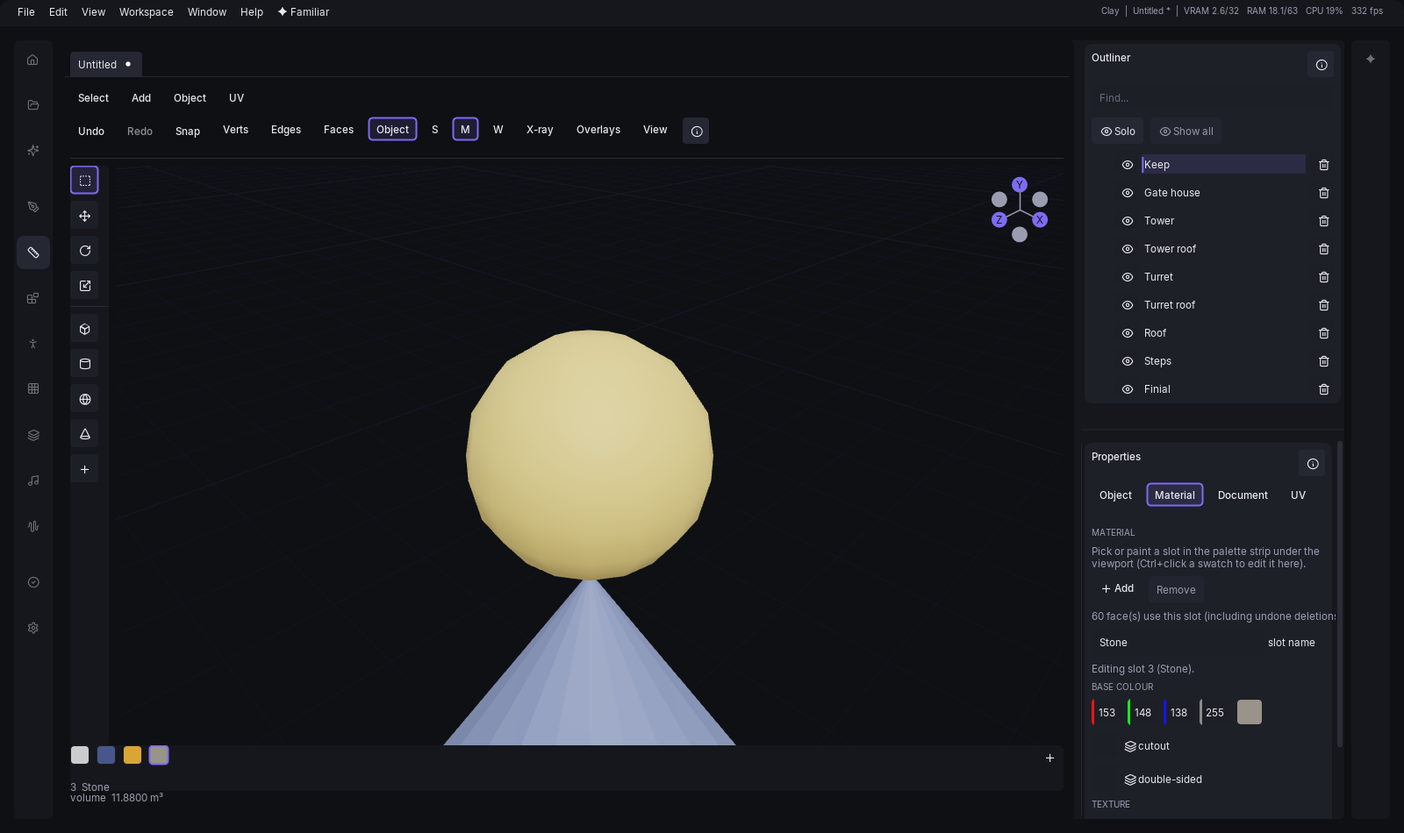
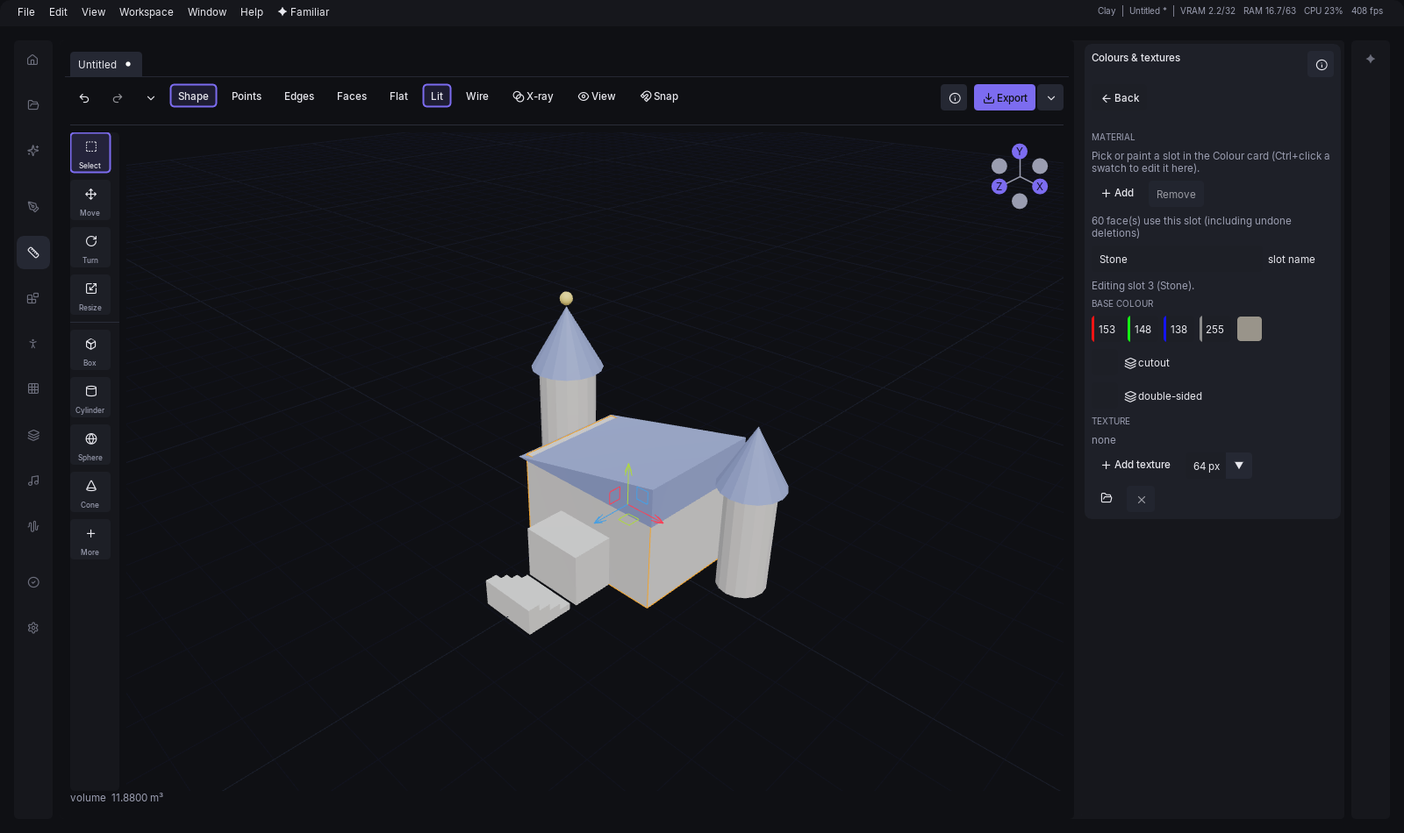
Clay's manual pictures and tour copy match the new layout
The four Clay screenshots are retaken (and now frame the whole keep), the manual and tour stop naming the Properties tabs, Adjust panel and menu strip, and a Colours page note that ran off the pane now wraps.

diff --git a/src/realmspinner/studio/tour/scripts.py b/src/realmspinner/studio/tour/scripts.py
@@ -790,7 +790,7 @@ CLAY_TORCH = Tour(
             title="The room you build in",
             body=(
                 "The column of buttons on the left is the rail: four tools (Select, Move, "
-                "Rotate, Scale -- Q, G, R, S on the keyboard) and the shapes you add. "
+                "Turn, Resize -- Q, G, R, S on the keyboard) and the shapes you add. "
                 "Everything you add is listed under All shapes, the row at the foot of "
                 "the Inspector on the right (click it to open or close the list), and "
                 "the Inspector above it holds the numbers.\n\n"
@@ -834,8 +834,9 @@ CLAY_TORCH = Tour(
             title="The shaft: a cylinder",
             body=(
                 "Add a Cylinder from the rail, then make it a thin pole: Size W 0.08, "
-                "H 0.6, D 0.08. It lands on the ground beside the plate; move it with "
-                "Position so it stands in front of the plate instead.\n\n"
+                "H 0.6, D 0.08. It lands on the ground beside the plate; open Position "
+                "& turn in the Inspector and move it so it stands in front of the plate "
+                "instead.\n\n"
                 "Next unlocks once the cylinder has been shaped."
             ),
             mode="clay",
@@ -893,8 +894,9 @@ CLAY_TORCH = Tour(
                 "slot. With the cone selected, press + in the palette twice to add two "
                 "more (each starts grey and the cone wears it), then Ctrl+click a slot and "
                 "press Edit colour to set its colour: a brown for the wood, an orange for "
-                "the fire. With nothing selected the same card is headed Next shape's "
-                "colour, and a click there picks what the next shape wears.\n\n"
+                "the fire (Back returns to the Inspector). With nothing selected the same card is "
+                "headed Next shape's colour, and a click there picks what the next shape "
+                "wears.\n\n"
                 "Next unlocks once the palette holds three slots."
             ),
             mode="clay",
@@ -907,8 +909,9 @@ CLAY_TORCH = Tour(
             id="paint",
             title="Paint the parts",
             body=(
-                "Select an object in All shapes and click a swatch in the Colour card, a "
-                "named colour or a slot of the palette, to repaint it. Do it for the "
+                "Click an object in the viewport (or in the All shapes list) and then a "
+                "swatch in the Colour card, a named colour or a slot of the palette, to "
+                "repaint it. Do it for the "
                 "flame and for the shaft, so the torch is not all one colour.\n\n"
                 "Next unlocks once two objects are painted with something other than the "
                 "first slot."
@@ -923,8 +926,9 @@ CLAY_TORCH = Tour(
             title="The Model card",
             body=(
                 "Saving and exporting live on the Model card, which the Inspector shows "
-                "when no shape is selected. Press Esc, or click empty space, to let go of "
-                "the shape; the next two cards point at the controls inside."
+                "when no shape is selected. Press Back if a page is open, then Esc, or click "
+                "empty space, to let go of the shape; the next two cards point at the "
+                "controls inside."
             ),
             mode="clay",
             anchor="clay/inspector",
@@ -963,8 +967,9 @@ CLAY_TORCH = Tour(
             id="where-next",
             title="Your torch is in the Library",
             body=(
-                "Open the Library to find it. Export GLB and Export OBJ, beside the "
-                "library button, write a plain file instead -- for a game engine that "
+                "Open the Library to find it. Export GLB and Export OBJ, in the "
+                "toolbar's Export menu (the chevron) and on the Model & history page, "
+                "write a plain file instead -- for a game engine that "
                 "reads files, not this app's Library. Neither counts as saving the "
                 "model; the .rblk you saved does.\n\n"
                 "From here the same moves build anything: add, size, colour, repeat."

diff --git a/src/realmspinner/studio/modes/clay/ui/panes/props.py b/src/realmspinner/studio/modes/clay/ui/panes/props.py
@@ -1102,7 +1102,7 @@ def _palette_row(doc: Any, obj: Any) -> None:
         # Same fold as Add, for the same reason.
         doc.remove_material_and_reassign(obj.uid, index)
     if reason:
-        widgets.muted(reason)
+        widgets.muted_wrapped(reason)
 
     # commit=True for the reason ``_identity``'s name field needs it: the
     # 2026-09-06 audit's clay-02 found this one reporting per keystroke too,

diff --git a/CHANGELOG.md b/CHANGELOG.md
@@ -20,6 +20,7 @@ the release you are actually running.
 
 ## 0.0.54 — 2026-09-28
 
+- **Clay's whole layout is rebuilt around one labelled toolbar, one tool rail and one Inspector.** A new shape stands on the ground, framed and in your last colour; the Select | Add | Object | Mesh | UV strip, the palette strip, Properties' four tabs and the Adjust card are gone, and everything they held is in the Inspector, the right-click menu or `Ctrl`+`K`; Points, Edges and Faces keep the shape selected; a plain drag orbits in every mode; the sidebars are 300 px in every mode; and Bevel Edges is back. The entries below say each piece in turn, newest first; the picoCAD-layout entry further down is the earlier step they replace.
 - **Clay: Bevel Edges is back, as the thirty-ninth operation.** The picoCAD-level cut took it out with the Blender-shaped long tail, but a low-poly model wants its corners chamfered, and the kernel never left (the old-file migration still ran it). In Edges mode **Bevel Edges...** sits in **Shape it** beside Extrude, in the right-click menu, in `Ctrl`+`K` and in the agent's `clay_op` list as `bevel`. `Ctrl`+`B` starts a drag for the width, drawn live and committed once on click or `Enter` (type `0.1` and `Enter` for exactly that); the menu, the palette and the Inspector open the width field instead. Bevel one edge of a box and the face opposite becomes a pentagon, bevel all twelve and the box has 26 faces. An edge on a boundary, a width of zero or less, or a selection that would touch more than 10,000 corners is refused with the reason. Loop cut, edge slide and the other cut operations stay cut. **Familiar's Clay card was re-frozen** (`cards/clay-2.txt`, sha `4f53e4b7...` to `53fd8891...`): the only change is `bevel` in `clay_op`'s name list, and no fine-tune had shipped against the old bytes.
 - **Clay: the Select | Add | Object | Mesh | UV menu strip is gone, and the toolbar is the first row over the viewport.** A second row of menu names sat above the toolbar and listed every operation Clay has, but each of those operations was already a button in the Inspector (More actions in Shape mode, the Select row and Shape it in Points, Edges and Faces), a row of the right-click menu and a `Ctrl+K` command, and the viewport paid a whole row of height for the fourth copy. The render is that row taller now. The one thing the strip alone offered, **Import Mesh...**, has three homes: a button on the Inspector's Model & history page beside the units and up axis it reads, a row in the File menu, and a `Ctrl+K` command; the shapes its Add menu listed are the rail's `+` and the Inspector's More shapes list, as before. `tests/modes/clay/test_clay_no_menu_strip.py` checks, in every mode, that each operation the strip named is still in the right-click menu and the palette (and in the Inspector, except Shape mode's Select All, Select None and Invert, which are `Ctrl+A`, `Ctrl+D` and `Ctrl+Shift+I`). The empty viewport now says "Pick one from the tool rail" rather than "from Add".
 - **Clay: the palette strip under the viewport is the Inspector's Colour card now.** The fixed band under the render held the document's slots in one sideways-scrolling row, so painting meant looking away from the Inspector's colours to a second palette at the bottom of the window, and the viewport gave 52 px of its height to it. The slots are now a second row of the Colour card, under the eight named colours, in every state the strip painted in: one shape, several, none (headed **Next shape's colour**, where a click only picks what the next shape wears) and Points, Edges and Faces (where a slot, or one of the eight, paints the picked faces; Points and Edges only pick the slot). A click, Ctrl+click and the **+** keep the strip's rules, except that **+** now also paints with the grey slot it adds, as one undo step (the strip's added a slot and left you to click it). The row wraps to the 300 px column and scrolls inside the card past three rows, so a sixty-four-slot palette cannot push Duplicate and Delete out of the pane. The render and the tool rail grow by the strip's height. The tour's colour steps point at the card.
@@ -42,7 +43,7 @@ the release you are actually running.
 - **Clay: hiding an object deselects it, a box's side walls stand upright, and a few refusals that were silent now speak.** Hiding through the eye, the visibility box, Solo or `H` leaves nothing selected that you cannot see (`Ctrl+Z` shows the object again without re-selecting it). The ±X walls of a box were laid out a quarter-turn on their side, so a picture painted for the front wall lay down along the sides; they now read upright and unmirrored like the other four. Assign Material, Shade in face mode and the Select Linked family skip a hidden object the way every other element door already did. Typing a coordinate into the Properties median that the document refuses (an overflowing one) now toasts instead of doing nothing, a UV move past the island ceiling toasts once and ends the drag instead of toasting every frame, the highlight under the pointer clears when the pointer leaves the viewport for a panel, and `round(x, 2.7)` in a `clay_program` expression is refused instead of rounding to two places.
 
 - **A guided tour for Clay: build a low-poly wall torch.** **Take the tour: Building a wall torch** (the Help menu, the command palette, and Home's offer once the earlier tours are done) walks a first model from an empty document: a box for the wall plate, two cylinders for the shaft and collar, a low-segment cone for the flame, three palette colours, then **Save** and **Export to library**. It needs no GPU and no downloaded model. It is the first tour whose building steps **hold Next** until the part they ask for is in the document (the card says "Next unlocks when this is done."; the Enter and Right keys wait too), and every held card has a **Skip step** button so a check you would rather not meet never traps you; every other tour still leaves Next open. The checks only read the document, and ending, skipping or going back changes nothing in it. The export step completes on **Export to library**; Export GLB and Export OBJ write a plain file and leave no mark on the document, so they do not count. Clay's rail, outliner, palette strip and Properties controls gained the tour's rings, and the Home, Overview, Clay and Modelling chapters describe it.
-- **Clay is laid out like picoCAD: a slim tool rail, a palette strip under the viewport, and the keys Q, G, R and S.** The left-hand Tools pane, the "Model file" pane and the swatch row inside the Material tab are gone, and the viewport takes the room. A **tool rail** down the viewport's left edge holds Select, Move, Rotate and Scale, a few shapes as one-click buttons and a **+** flyout that lists all fifteen shapes by name. A fixed **palette strip** under the viewport shows the document's material slots: a click repaints the selected object or paints the selected faces (one undo step), `Ctrl`+click makes it the slot the Material tab edits, and **+** adds a slot. The right column is the outliner and Properties only, and Properties' tabs are now words: **Object**, **Material**, **Document** and **UV** (the UV view moved in from its own pane). **Undo** and **Redo** are buttons in the header; Open, Open Recent, Export GLB, Export OBJ and Save Screenshot moved into the **File** menu next to New, Save, Save As and Export to library, and the Document tab keeps the counts, the import units and up axis, the undo history, the last export and the two export buttons. **The tools are Q select, G move, R rotate, S scale** (Blender's letters, replacing Q/W/E/R): G, R and S also start a keyboard drag and light their tool, so the key and the tool always agree, and `E` is Extrude in an element mode and does nothing in object mode. The header's mode pills now read V, E, F, Obj in the order of the keys 1 to 4. **The viewport tells you more.** A selected object is outlined in orange and the object under the pointer lights up; the grid draws a red X axis, a blue Z axis and an origin dot; the wheel zooms toward the pointer and can come in much closer; `F` frames the selection without turning the view; the middle button pans with or without `Shift`; the numeric keypad looks along front, right and top (1, 3, 7), toggles orthographic (5) and frames (.); and `H`, `Shift`+`H` and `Alt`+`H` hide, isolate and show all. The Move gizmo has plane handles, and the Select tool shows it for a selection, in element modes too. **Snap now means what it says in an element mode:** with Snap on, a Move puts each moved vertex on a grid point in world space instead of carrying the selection by a snapped offset (object mode still snaps the object's origin). With vertices, edges or faces selected the Object tab shows the selection's median X, Y and Z, which you can type to move it (one undo step), and the length of a selected edge or the area of a selected face. `E` and `R` over the UV view are now `R` (rotate) and `S` (scale), matching the viewport. Mason keeps `Q`, `W`, `E` and `R`, and its gizmo is unchanged. The Clay chapter, the shortcut chapter and the Ctrl+/ sheet were rewritten for all of it, and the `clay-bridge` help target went with the pane it opened.
+- **Clay is laid out like picoCAD: a slim tool rail, a palette strip under the viewport, and the keys Q, G, R and S.** *(The palette strip, the Properties tabs and the header's mode pills described here were replaced later in this same release by the Inspector and the toolbar, above; the keys and the viewport changes stand.)* The left-hand Tools pane, the "Model file" pane and the swatch row inside the Material tab are gone, and the viewport takes the room. A **tool rail** down the viewport's left edge holds Select, Move, Rotate and Scale, a few shapes as one-click buttons and a **+** flyout that lists all fifteen shapes by name. A fixed **palette strip** under the viewport shows the document's material slots: a click repaints the selected object or paints the selected faces (one undo step), `Ctrl`+click makes it the slot the Material tab edits, and **+** adds a slot. The right column is the outliner and Properties only, and Properties' tabs are now words: **Object**, **Material**, **Document** and **UV** (the UV view moved in from its own pane). **Undo** and **Redo** are buttons in the header; Open, Open Recent, Export GLB, Export OBJ and Save Screenshot moved into the **File** menu next to New, Save, Save As and Export to library, and the Document tab keeps the counts, the import units and up axis, the undo history, the last export and the two export buttons. **The tools are Q select, G move, R rotate, S scale** (Blender's letters, replacing Q/W/E/R): G, R and S also start a keyboard drag and light their tool, so the key and the tool always agree, and `E` is Extrude in an element mode and does nothing in object mode. The header's mode pills now read V, E, F, Obj in the order of the keys 1 to 4. **The viewport tells you more.** A selected object is outlined in orange and the object under the pointer lights up; the grid draws a red X axis, a blue Z axis and an origin dot; the wheel zooms toward the pointer and can come in much closer; `F` frames the selection without turning the view; the middle button pans with or without `Shift`; the numeric keypad looks along front, right and top (1, 3, 7), toggles orthographic (5) and frames (.); and `H`, `Shift`+`H` and `Alt`+`H` hide, isolate and show all. The Move gizmo has plane handles, and the Select tool shows it for a selection, in element modes too. **Snap now means what it says in an element mode:** with Snap on, a Move puts each moved vertex on a grid point in world space instead of carrying the selection by a snapped offset (object mode still snaps the object's origin). With vertices, edges or faces selected the Object tab shows the selection's median X, Y and Z, which you can type to move it (one undo step), and the length of a selected edge or the area of a selected face. `E` and `R` over the UV view are now `R` (rotate) and `S` (scale), matching the viewport. Mason keeps `Q`, `W`, `E` and `R`, and its gizmo is unchanged. The Clay chapter, the shortcut chapter and the Ctrl+/ sheet were rewritten for all of it, and the `clay-bridge` help target went with the pane it opened.
 - **Clay is now a picoCAD-level modeller: fifteen shapes, thirty-eight operations, no modifier stack, no colliders, no game check and nothing handed to Blender.** Clay had grown to about 63,000 lines and roughly eighty operations around a Blender-shaped idea of what a modeller is, and the thing it is for is blocking out low-poly assets with a flat colour or a picture on each face. **Gone:** the modifier stack (Mirror, Array, Radial Array, Solidify, Bevel, Subdivide, Weld, Triangulate, Smooth and Boolean modifiers) and the Union, Difference and Intersection objects; collision shapes, the export-engine setting that renamed them, the game check and its engine profiles; the Blender-backed Retopologize, Smart Unwrap and Bake Detail, plus Decimate; **Generate...** and **Make 3D**; **Export .blend**; Diagnose and the mesh check, Clean Up and the select-by-similar, loop and ring queries; seams, Unwrap Seams and Texel Density; tags and locks; the material library and every material setting but name, colour, base-colour texture, double-sided and cutout; the figures; pyramid, arch, column, lathe, sweep and tube, with the curve editor that edited the last three; bevel, loop cut, edge slide, knife, bridge, dissolve, collapse, fill hole, array, align, distribute, place between and bake transform among the operations; and snapping to a vertex, edge or face and the proportional falloff. **Kept:** the nine primitives and six game shapes, element modes with extrude, inset (with its live drag), merge faces, weld, flip, subdivide and triangulate, repeat last and the adjust card, move, rotate and scale with grid and angle snap, duplicate, mirror and mirror copy, group and parent, join, separate, the four set-origin operations, drop to ground and snap to grid, shade smooth and flat, Recalculate Normals, Box Unwrap and Pack Islands, the outliner and the UV view, import of GLB, OBJ, STL and PLY, and export to the library, to a GLB, to a plain OBJ (no engine profile, no axis conversion) and to a screenshot. The menus are Select, Add, Object and UV in object mode and Select, Add and Mesh in an element mode, and Properties is three tabs, Object, Material and Document. **Your old files still open.** A `.rblk` is saved as format 4 now; a file written by 0.0.51 or earlier opens with each object's modifiers applied to its mesh, its collision shapes removed, its seams, tags and locks cleared, any shape Clay no longer builds kept as a plain mesh and its materials simplified, and one toast says which of those happened to this file. Nothing is written back until you save, and a saved file is format 4, which older builds cannot read, so keep the original if you may go back. The agent surface shrinks with it: 34 tools instead of the old list (no figure, boolean, modifier, collider, analysis, diagnosis, validation, lock or tag tool), `clay_catalog` answers four topics (`ops`, `primitives`, `queries`, `uv_actions`), `clay_uv` is unwrap, pack or transform, the `repair_mesh` and `prepare_for_export` prompts are gone, and Familiar's Clay card was regenerated from the smaller tool list (`cards/clay-2.txt`). Mason keeps every shape it ever placed, because a scene names its shapes by generator, and the manual's Clay chapter was rewritten around what is left.
 - **Clay: paint faces from a swatch row, make a texture, and edit it in Inker on the PICO-8 colours.** The Material tab opens on one swatch per palette slot. In face mode a click paints the selected faces and leaves the object's default slot alone; in object mode it repaints the object, as before. Nothing assigned a material to a face selection until now, so the new Mesh menu row **Assign Material...** does it by slot number, and an agent reaches it through `clay_material`'s new `faces` and `index` arguments (`faces` needs exactly one uid, `index` reuses a slot rather than appending one). **Add texture** on a slot makes a blank 32, 64 or 128 pixel square (64 to begin with) in the slot's colour, and the colour moves into the picture: the field reads white afterwards, because the renderer multiplies the colour by the texel and leaving both would have shown it squared. Objects with a face on the slot and no texture coordinates are box-unwrapped in the same undo step. **Edit texture in Inker** opens the picture as a palette-locked Inker document of the sixteen PICO-8 colours, and what you paint lands back in Clay each time a step is committed there, as one Clay undo step per return; the link follows the picture, not the palette entry, so it survives a colour, cutout or double-sided edit and lets go when the texture is cleared, a return is undone or a slot below is removed, and **Take texture back from Inker** is the manual fallback for a drawing that was not opened from the slot. **Textures made in Clay render crisp:** nearest filtering with no mipmaps in the viewport and the UV view (which now draws the picture behind the islands), and the GLB carries a glTF NEAREST sampler for them so an engine that honours samplers imports the pixels square. A Clay GLB reopens crisp, the `.rblk` remembers the flag, and a document with no such material is written byte for byte as before. **Export OBJ now writes the textures:** a `map_Kd` line in the `.mtl` and a PNG beside the OBJ for each textured material, named `<stem>_<n>.png` with the slot's number. Importing an OBJ still does not read `map_Kd`.
 - **Clay: a closing pass over the picoCAD rewrite fixes three ways to lose work and about eighty smaller faults.** A GLB whose node is scaled to zero — the usual way a game asset hides a part — imported into a document that saved and autosaved but could never be reopened, taking its crash recovery with it; it now comes in at a tiny scale with its geometry intact, and Clay refuses at save time anything its own reader would refuse (a zero or non-finite transform, a NaN vertex) instead of writing a file it cannot open. The first document opened each session no longer loses the camera it was saved with. `E` or `R` over the UV view rotates or scales the islands and no longer also extrudes the 3-D faces or changes the tool. Paint done in Inker now lands on the Clay texture even if the Inker tab is closed first, and an Inker picture too large to come back is refused before it opens. An old (format 3) file can no longer bake its modifiers past the triangle ceiling into a model that cannot be saved, and the toast that says what the conversion changed now stays until read. Export OBJ writes its `.obj`, `.mtl` and PNGs together or not at all and never replaces a file beside it that Clay did not write; an OBJ or MTL with a byte-order mark, an object named with `#` or a trailing backslash, and a vertex past 32-bit range all now import or export correctly or are refused by name; an exported OBJ comes back with its material names and no extra grey slot. Weld never joins vertices farther apart than the distance typed, Pack Islands' margin is the real gap in the square, Box Unwrap ignores stray vertices, Group Selected keeps a selected child under its parent, a two-number shape edit keeps the paint and UVs, a PNG assigned from disk is set up like Add texture, and the volume readout no longer trusts a mesh with a flipped face. A scene of thousands of objects no longer redraws in quadratic time, objects sharing one texture share one GPU copy, and Merge Faces, Fill Hole and the UV island tools scale linearly. For agents: every name is capped at 128 characters and the palette at 1,024 slots, a uid (and `clay_measure`'s vertex index) must be a whole number everywhere, `clay_parent` and `clay_measure` included, `clay_op` reports the parameters it actually used, `clay_scene` marks textured slots, and a test now fails when Familiar's frozen Clay card drifts from the live tools. Shade Smooth and Shade Flat no longer report success when every object refused, and an import scale large enough to overflow Clay's float32 positions is refused by name instead of importing infinite vertices.

diff --git a/docs/manual/30-clay.md b/docs/manual/30-clay.md
@@ -23,7 +23,7 @@ its **Colour** card, with the list of every shape in the document, **All shapes*
 [The outliner](#the-outliner)). There is no left-hand column and no separate file pane. Several documents
 stay open at once.
 
-![Clay with a small keep open: tool rail and Inspector](img/30-clay.png)
+![Clay with a small keep open: toolbar, tool rail and the Inspector on one shape](img/30-clay.png)
 
 ## Starting a document
 
@@ -116,7 +116,7 @@ longitude, which is what makes it the one to wrap an equirectangular texture rou
 `height` is its cylindrical middle alone, so the whole shape is that plus a radius at each end.
 
 A placed object remembers *how it was made*. Its generator and the parameters it was built with are
-kept, so the properties panel offers those parameters — a cylinder's radius, height and segment
+kept, so the Inspector's Shape settings offer those parameters — a cylinder's radius, height and segment
 count — and changing one rebuilds the mesh. That is a single undo step, so `Ctrl+Z` takes the
 object back to the shape it had rather than to some intermediate state.
 
@@ -145,7 +145,7 @@ A row that cannot run is greyed and hovering it says why; one with an ellipsis o
 first. In Shape mode, Select All, Select None and Invert Selection have no Inspector button: they are `Ctrl+A`,
 `Ctrl+D` (or `Esc`) and `Ctrl+Shift+I`, and rows of the right-click menu and the palette.
 
-Two things that used to sit in the strip's Add menu have new homes. The shapes are the tool rail's **+** and the
+Two things you might look for in an Add menu live elsewhere. The shapes are the tool rail's **+** and the
 Inspector's tiles and **More shapes** list (see [Adding a primitive](#adding-a-primitive)). **Import Mesh...**
 is on the Inspector's **Model & history** page, next to the units and up axis it uses; it is also in the **File**
 menu and in `Ctrl`+`K` (see [Importing an asset](#importing-an-asset)).
@@ -182,9 +182,8 @@ changed the same way.
 
 The toolbar is one row across the top of the viewport, and it is where everything you
 change *between* clicks lives: which element mode you are in, how the surface is drawn, what the viewport
-shows over the model, whether snapping is on, and the way out of the document. These used to be blocks
-down a tool panel on the far side of the window from the model — a reach away from the thing every one of
-them is about. Left to right it holds:
+shows over the model, whether snapping is on, and the way out of the document, all next to the model they are
+about. Left to right it holds:
 
 - **Undo**, **Redo** and a small chevron beside them that opens the **history**: every step, with the
   newest marked, and a click on one goes there. Undo and Redo are greyed when there is nothing to take back
@@ -259,9 +258,9 @@ this chapter.
 ## Element modes
 
 Every object starts as one thing you can move about. Press `1`, `2` or `3` and it becomes a mesh you
-can take apart: vertices, edges, faces. `4` goes back to object mode. The **Mode** pills in the
-viewport toolbar say the same thing — **Shape**, **Points**, **Edges**, **Faces**, shortening to **S**, **P**,
-**E**, **F** in a narrow window — and highlight whichever mode the document is in. The switch reads left to
+can take apart: vertices, edges, faces. `4` goes back to object mode. The mode switch in the
+viewport toolbar says the same thing — **Shape**, **Points**, **Edges**, **Faces**, shortening to **S**, **P**,
+**E**, **F** in a narrow window — and highlights whichever mode the document is in. The switch reads left to
 right in the order of the modes (Shape first), so the keys under it run `4`, `1`, `2`, `3`.
 
 | Key | Mode | What clicking selects |
@@ -330,7 +329,7 @@ Delete, Duplicate and element drags leave a hidden object alone too, without a m
 
 **Element selection is transient.** It is not saved with the document, and an undo that changes
 geometry drops it — the indices it named describe a mesh that no longer exists. An undo that only
-moves or renames something keeps it, because those cannot invalidate it. A properties-panel or agent
+moves or renames something keeps it, because those cannot invalidate it. An Inspector or agent
 edit that rebuilds a shape from its own parameters is different again: if it comes out with the same
 faces in the same order (every change to a size, however many are changed at once) the selection, any
 per-face paint and the UV layout are carried through unchanged, and so is the shading. Two counts that
@@ -359,7 +358,7 @@ a box and `L` between them reach what a low-poly model needs.
 | Faces | Assign Material... | Paints the selected faces with one palette slot, given by its number in the Colour card's palette, and leaves the object's default slot alone. See [Texturing](#texturing). |
 | Faces | Triangulate Faces (`T`) | Replaces each selected face with its own triangles. |
 | Faces | Merge Faces | Merges a connected block of selected faces into one n-gon. |
-| Verts | Weld | Merges vertices closer together than a distance you give. Two vertices closer than the distance weld. Inside a longer run of closely spaced points a vertex joins a group only if it is within half the distance of the group's leader (the first vertex in coordinate order), so a chain is cut into pieces rather than collapsed into one, and a pair closer than the distance can stay apart when neither is near a leader. The distance is limited to 50 m, and a distance big enough to leave the object with no faces at all is refused, naming the distance. |
+| Points | Weld | Merges vertices closer together than a distance you give. Two vertices closer than the distance weld. Inside a longer run of closely spaced points a vertex joins a group only if it is within half the distance of the group's leader (the first vertex in coordinate order), so a chain is cut into pieces rather than collapsed into one, and a pair closer than the distance can stay apart when neither is near a leader. The distance is limited to 50 m, and a distance big enough to leave the object with no faces at all is refused, naming the distance. |
 
 An operation that cannot do what you asked says so in a toast naming the element and what to do
 instead, and changes nothing. Those are refusals, not failures: the alternative is geometry that
@@ -779,7 +778,7 @@ carrying both sets of interior walls. For a low-poly model that is usually fine,
 faces cost nothing you can see; where it is not, delete the faces inside the overlap in face mode.
 
 A merged object is no longer what a generator would build, so its generator claim is dropped along
-with the merge — the properties panel stops offering the size field that would have rebuilt a
+with the merge — the Inspector stops offering the size field that would have rebuilt a
 pristine box over your work. That drop is part of the same undo step.
 
 ## Mirroring
@@ -846,7 +845,7 @@ vertex** onto a grid point in world space, so a face dragged with Snap on ends w
 grid points however it started; the vertices are not carried by a common offset, which means a mesh that
 began off the grid is pulled onto it. Rotation snaps the angle.
 
-Snapping applies to gizmo and keyboard drags. A number typed into the properties panel is used exactly
+Snapping applies to gizmo and keyboard drags. A number typed into the Inspector is used exactly
 as typed, because you already said what you meant, and so is a number typed during a drag, because at
 that point you have said where the thing goes. A drag locked to an axis is not snapped either, and the drag
 an Extrude hands over to is locked to the face's normal, so it is not snapped: type a distance, or let go and
@@ -889,7 +888,7 @@ and lay on the object's material (see [Texturing](#texturing)).
 
 The **Unwrap** page of the Inspector shows the selected object's texture layout: its islands, with the element
 selection highlighted inside them. An object with no layout yet says so and offers **Box Unwrap** right
-there; it stays under the toolbar once there is a layout, beside **Pack islands...**, which asks for its
+there; it stays on the page once there is a layout, beside **Pack islands...**, which asks for its
 margin the way the right-click menu's Pack Islands does. The wheel zooms, the middle button pans,
 clicking an island selects it (a click on empty space deselects), and dragging either box-selects islands or moves
 whichever ones are selected. `R` and `S` rotate and
@@ -904,7 +903,7 @@ with the same patch of texture. That is exactly what a box projection does on pu
 information rather than a warning. **Pack Islands** lays everything out inside the square with a
 margin you choose, keeping the relative sizes so nothing changes its texture density.
 
-When the material under the pane has a base-colour texture, the picture fills the square behind
+When the material under the page has a base-colour texture, the picture fills the square behind
 the islands, so you can see which part of it each face lands on. It is the material of the first
 selected face while faces are selected, and the object's default slot otherwise, and it is drawn
 with the same filtering as in the viewport: hard texels for a crisp texture.

diff --git a/docs/manual/20-overview.md b/docs/manual/20-overview.md
@@ -200,8 +200,8 @@ or close there. Everything else below holds in all eight.
   one. Under **Take it somewhere** are the ways out of the mode: the library, and whichever
   workspaces read what this one makes. Each panel has exactly one accented button, and it is the
   mode's own commit — export to the library, send to Poser, export the audio.
-  **Clay is the exception**: it has no separate file pane. The same verbs, its exports and **Undo** and
-  **Redo** are in its **File** menu, and Undo and Redo are also buttons in its header.
+  **Clay is the exception**: it has no separate file pane. The same verbs and its exports are in its **File** menu
+  and on the Inspector's **Model** card, and **Undo** and **Redo** are also buttons in its toolbar.
 - **The same gestures.** The wheel zooms, in 5% steps, in every canvas; `Shift` and the wheel scrolls
   sideways; the middle button pans. In a 3D view, `Alt`+drag orbits and the middle button pans.
   `Ctrl+1`, `Ctrl+3` and `Ctrl+7` look along an axis and `Ctrl+5` toggles perspective, in Clay, in
